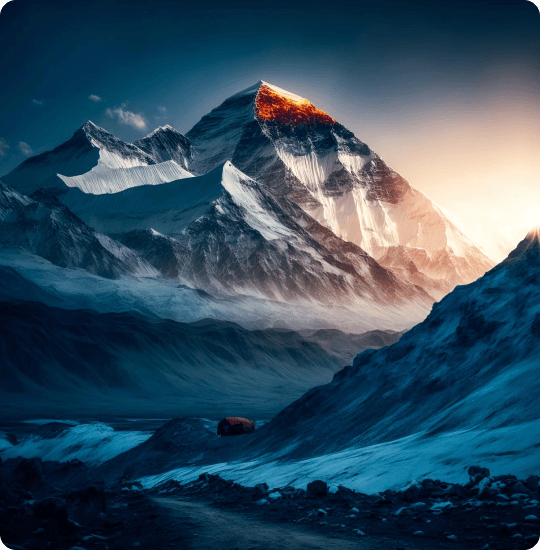
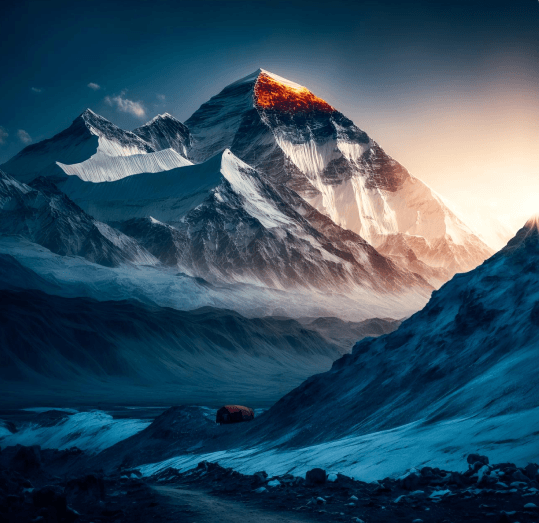
added popular section

diff --git a/index.html b/index.html
@@ -41,7 +41,25 @@
       </form>
     </div>
   </header>
-  <main></main>
+  <main>
+    <section class="container popular-section">
+      <div class="popular-info">
+        <h2>Our Popular Tours</h2>
+        <p>Dolor sit amet consectetur. Diam volutpat neque habitasse pharetra odio sit massa. Sodales dictumst nec nibh pellentesque.</p>
+        <ul>
+          <li>Tempus euismod lacus mauris dignissim quis in ultrices. Magna nullam odio neque diam. Sociis erat at .</li>
+          <li>Adipiscing ornare pellentesque mauris volutpat tortor vitae platea porta lacus. Lectus suspendisse nullam.</li>
+          <li> Accumsan eget et turpis praesent lorem egestas enim elit bibendum. Risus at in.</li>
+        </ul>
+        <p>Amet consectetur. Vulputate commodo felis molestie risus 
+          ornare nulla amet et. Libero commodo sagittis dignissim adipiscing quis. Habitant adipiscing risus natoque aliquet. Id bibendum nunc senectus semper tincidunt. </p>
+          <button>Read More</button>
+      </div>
+      <div class="popular-img">
+        <img src="./images/popular.png" alt="">
+      </div>
+    </section>
+  </main>
   <footer></footer>
 </body>
 

diff --git a/styles/style.css b/styles/style.css
@@ -14,7 +14,7 @@
 .container {
   width: 85%;
   max-width: 1440px;
-  margin: 0 auto;
+  margin: 3rem auto;
 }
 
 p {
@@ -28,11 +28,12 @@ button {
   font-size: 1.25rem;
   font-weight: 600;
   background: #FF5400;
-  padding: .2rem .8rem;
+  padding: .6rem 1rem;
   border-radius: .5rem;
   color: #ffffffcb;
   transition: all 1s;
   border: none;
+  cursor: pointer;
 }
 
 button:hover {
@@ -115,7 +116,7 @@ button:hover {
   border-radius: .5rem;
   padding: 1rem 1.5rem;
   background: rgba(255, 255, 255, 0.30);
-  
+
 }
 
 .banner-input input {
@@ -135,4 +136,33 @@ button:hover {
   border-radius: .5rem;
   padding: .5rem .7rem;
   font-size: 20px;
+}
+
+/* POPULAR SECTION STYLE */
+.popular-section {
+  display: flex;
+  align-items: center;
+  justify-content: space-between;
+  gap: 4rem;
+}
+.popular-info *{
+  margin: .5rem 0;
+}
+
+.popular-info h2 {
+  color: #131318;
+  font-size: 3rem;
+  font-weight: 800;
+}
+
+.popular-info p {
+  color: rgba(19, 19, 24, 0.70);
+}
+.popular-info ul li{
+  margin-left: 2rem;
+  color: rgba(19, 19, 24, 0.70);
+}
+.popular-img img{
+  border-radius: 1rem;
+  
 }

diff --git a/styles/responsive.css b/styles/responsive.css
@@ -25,4 +25,10 @@
   .btn-primary{
     width: 100%;
   }
+  .popular-section{
+    flex-direction: column;
+  }
+  .popular-img img{
+    width: 100%;
+  }
 }
